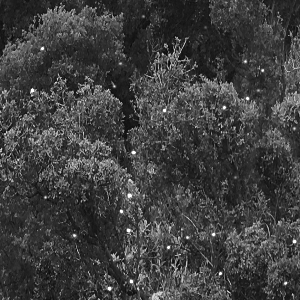
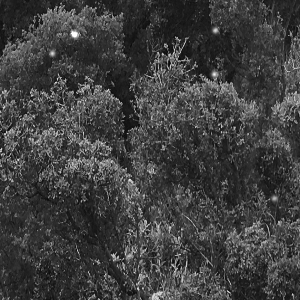
Added console output readout to show progress in spot generation.

diff --git a/SpotImage/SpotImage.py b/SpotImage/SpotImage.py
@@ -33,7 +33,8 @@ class SpotImage():
 
 	# list of SNR distributions handled
 	spot_shapes = ['2D_Gaussian']
-	snr_distrs = ['Gaussian']						
+	snr_distrs = ['Gaussian']		
+	spot_index = 1				
 
 	"""
 	Constructor
@@ -72,15 +73,6 @@ class SpotImage():
 	def get_spot_y(self):
 		return np.random.random_integers(self.margin, self.img_sz - self.margin - 1)
 
-	# """
-	# Returns:
-	# 	list of spots
-	# 		each spot has a random location and a patch of intensities
-	# """
-	# def get_spot_list(self):
-	# 	spot_list = [[x=self.get_spot_x(), y=self.get_spot_y(), self.get_patch(x,y)] for i in range(self.num_spots)]
-	# 	return spot_list
-
 	"""
 	Returns:
 		list of spots
@@ -115,10 +107,11 @@ class SpotImage():
 					exp_quantity = exp_num/exp_den
 					patch[i][j] = max_intensity*np.exp(-exp_quantity)
 
-					# Temporarily populate patch with rand ints just
-					# to get the logic of the rest of this class.
-					# row[i] = np.random.random_integers(0,400)
 		cv2.imwrite("patch.png", patch)
+
+		print("spot", self.spot_index, "/", self.num_spots)
+		self.spot_index = self.spot_index + 1
+
 		return patch
 
 	"""
@@ -172,6 +165,7 @@ class SpotImage():
 		return spot_array
 
 	def generate_spot_image(self):
+		print("Generating...")
 		bg_array = self.img_to_array()
 		spot_list = self.get_spot_list()
 		spot_array = self.spot_list_to_spot_array(spot_list)

diff --git a/SpotImage/test.py b/SpotImage/test.py
@@ -5,8 +5,8 @@ bg_img = 'bg.jpg'
 color_map = 'greyscale'
 img_sz = 300
 patch_sz = 11		# typical patch size from beads_300pxroi.png; using odd number so that center point exists
-num_spots = 30
-spot_sigma = 1
+num_spots = 5
+spot_sigma = 2
 spot_shape_params = ['2D_Gaussian', spot_sigma]
 snr_mu = 30			
 snr_sigma = 1
